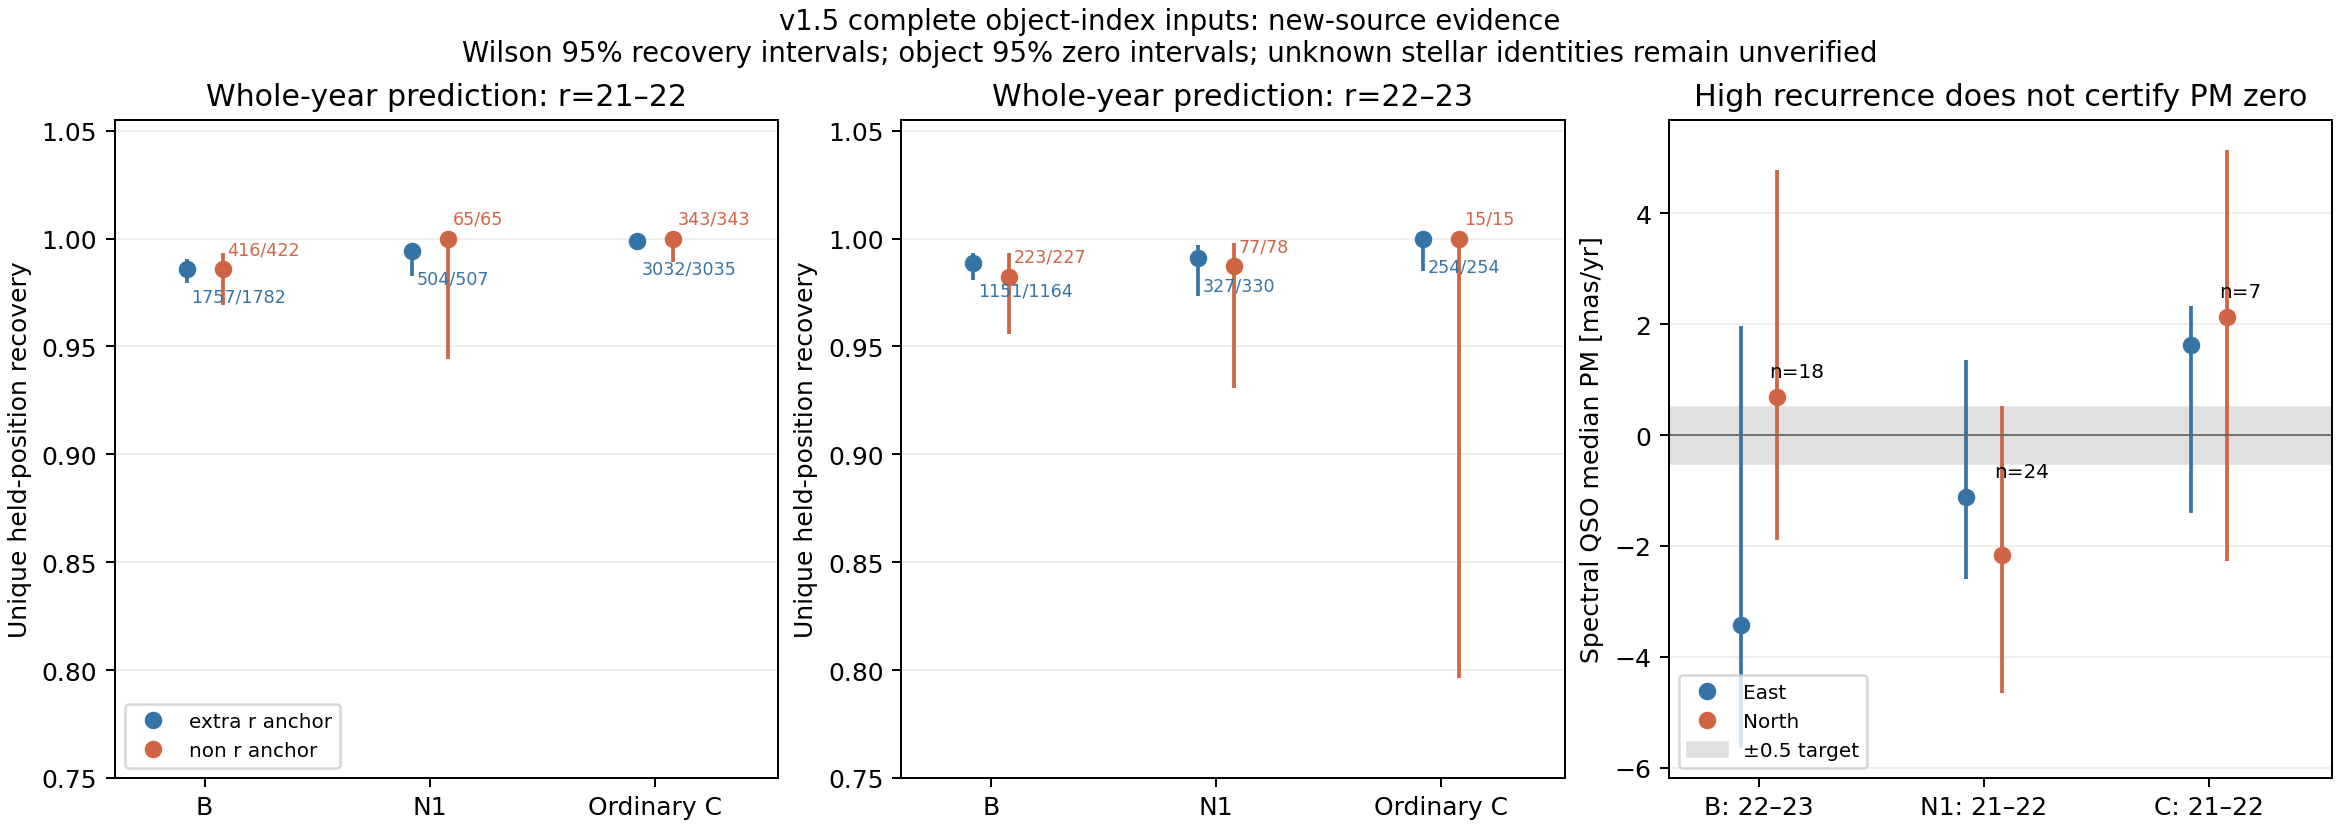
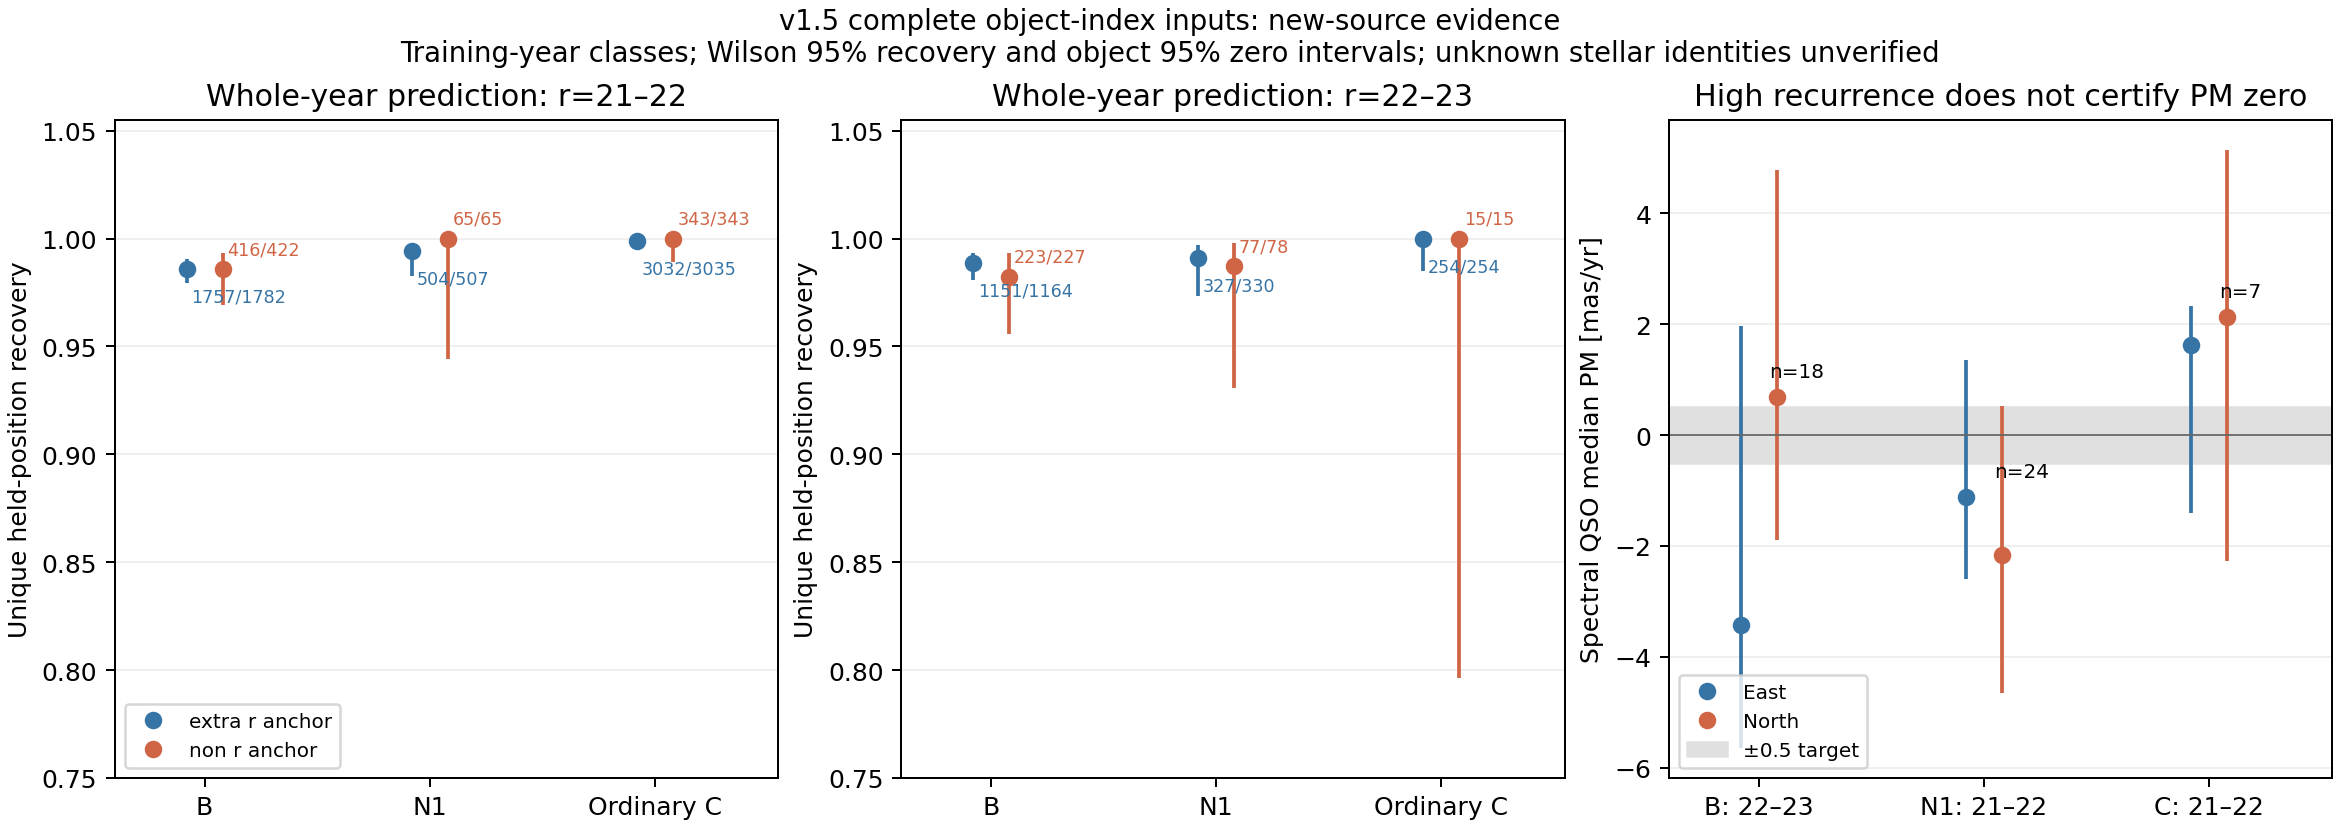
Separate retrieval gains from multiband information and audit local C0 solver equivalence

Changed region(s): [[0.1872, 0.0302, 0.8423, 0.0907]]

diff --git a/src/deep_pm/dcr_control_replay.py b/src/deep_pm/dcr_control_replay.py
@@ -1,0 +1,45 @@
+"""Replay original C0 on the identical local D0 reference population.
+
+This diagnoses whether a global/local difference can be a solver effect; it
+neither adds a DCR parameter nor adopts independent per-core reference frames.
+"""
+import argparse
+import os
+from pathlib import Path
+
+import numpy as np
+import pandas as pd
+
+from .__main__ import tomllib
+from .continuous_reference import PRECISION,bind,calibration_components,verify_directory
+from .dcr_validation import read_model
+from .io import save_json
+from .provenance import run_stage
+from .public_summary import check_aggregate
+from .zero_point import fit_offsets
+
+
+def run(work,trial):
+    config=tomllib.loads(PRECISION.read_text());cal=config['calibration'];rows=pd.read_csv(trial/'private_reference_dcr.csv.gz',dtype={'reference':str,'is_holdout':bool});train=rows.loc[~rows.is_holdout]
+    part=max(calibration_components(train,cal['min_references']),key=lambda p:p.reference.nunique()).reset_index(drop=True)
+    fit=fit_offsets(part.reference,part[['east','north']].to_numpy(),part[['sigma_e','sigma_n']].to_numpy(),part.group.to_numpy(),cal['min_references'],cal['bootstrap_draws'],config['seed'])
+    late=[v for k,v in fit.items() if k.startswith('NSC:')];anchor=np.median([v[0] for v in late],axis=0);datum=np.median([v[1]-v[1].mean(axis=0) for v in late],axis=0);old={}
+    for key,(point,samples,n) in fit.items():
+        samples=samples-samples.mean(axis=0)-datum
+        if np.std(samples,axis=0,ddof=1).max()<=cal['max_offset_se_mas']:old[key]=(point-anchor,samples,n)
+    d0=read_model(trial/'private_D0_local_C0.npz')['base'];keys=sorted(set(old)&set(d0));point=np.array([old[k][0]-d0[k][0] for k in keys]);sigma=np.array([np.std(old[k][1],axis=0,ddof=1)-np.std(d0[k][1],axis=0,ddof=1) for k in keys])
+    result=dict(local_reference_sources=part.reference.nunique(),local_measurements=len(part),original_solver_supported_groups=len(old),D0_supported_groups=len(d0),common_groups=len(keys),same_supported_groups=set(old)==set(d0),
+        maximum_absolute_group_offset_change_mas=float(abs(point).max()),group_offset_change_p16_p50_p84_mas=np.quantile(point,[.16,.5,.84],axis=0),maximum_absolute_bootstrap_se_change_mas=float(abs(sigma).max()),
+        slurm_job=os.environ['SLURM_JOB_ID'],scope='Original zero_point.fit_offsets and frozen local no-DCR D0 use exactly the same physical training references, coordinates, native+floor errors, group keys, bootstrap seed and median-NSC gauge. Original tolerance1e-9 versus local1e-10 is retained. Both already center each reference before solving. This is a solver-equivalence diagnostic, not a new calibration/DCR model or permission to adopt local frames independently.')
+    check_aggregate(result);save_json(work/'dcr_control_replay_summary.json',result)
+
+
+def main():
+    p=argparse.ArgumentParser(description=__doc__);p.add_argument('work',type=Path);p.add_argument('trial',type=Path);a=p.parse_args()
+    if not os.environ.get('SLURM_JOB_ID'):p.error('Use a Slurm compute node')
+    a.work.mkdir(parents=True,exist_ok=True);bind(a.work,'trial_receipt.json',verify_directory(a.trial,('private_reference_dcr.csv.gz','private_D0_local_C0.npz')))
+    with run_stage(a.work,PRECISION,'local_C0_equivalence','dcr-control-replay-v15',inputs=('trial_receipt.json',),outputs=('dcr_control_replay_summary.json',)) as go:
+        if go:run(a.work,a.trial)
+
+
+if __name__=='__main__':main()

diff --git a/src/deep_pm/nsc_dark_figures.py b/src/deep_pm/nsc_dark_figures.py
@@ -27,7 +27,7 @@ def run(summary,output):
         axes[2].annotate('n='+str(part['n']),(j,max(model['median'])),xytext=(4,8),textcoords='offset points',fontsize=8)
     axes[2].axhspan(-.5,.5,color='.88',label='±0.5 target');axes[2].axhline(0,color='.4',lw=.7);axes[2].set(xticks=range(3),xticklabels=['B: 22–23','N1: 21–22','C: 21–22'],ylabel='Spectral QSO median PM [mas/yr]',title='High recurrence does not certify PM zero',xlim=(-.4,2.55));axes[2].grid(axis='y',alpha=.2)
     axes[0].legend(fontsize=8,loc='lower left');axes[2].legend(fontsize=8,loc='lower left')
-    fig.suptitle('v1.5 complete object-index inputs: new-source evidence\nWilson 95% recovery intervals; object 95% zero intervals; unknown stellar identities remain unverified',fontsize=11)
+    fig.suptitle('v1.5 complete object-index inputs: new-source evidence\nTraining-year classes; Wilson 95% recovery and object 95% zero intervals; unknown stellar identities unverified',fontsize=11)
     output.parent.mkdir(parents=True,exist_ok=True);fig.savefig(output,dpi=180);plt.close(fig)
 
 

diff --git a/tests/test_dcr_reference.py b/tests/test_dcr_reference.py
@@ -52,3 +52,13 @@ def test_source_color_error_is_shared_and_joint_beta_group_draws_cancel():
     noisy,_=offsets(model,['g1','g2'],[0,0],2.2,.2,'same source')
     np.testing.assert_array_equal(noisy['g1'][1],noisy['g2'][1])
     assert np.std(noisy['g1'][1][:,1])>1
+
+
+def test_no_dcr_local_solver_matches_original_c0_on_same_large_coordinate_graph():
+    from deep_pm.dcr_reference_fit import fit
+    from deep_pm.zero_point import fit_offsets
+    rng=np.random.default_rng(42);nr=30;groups=np.tile(np.arange(3),nr);refs=np.repeat(np.arange(nr),3)
+    xy=np.repeat(rng.normal(1e8,1e6,(nr,2)),3,axis=0)+np.array([[12.,-5.],[-8.,15.],[0.,0.]])[groups]+rng.normal(0,2,(len(groups),2));sigma=np.full_like(xy,50.)
+    old=fit_offsets(refs,xy,sigma,groups,5,8,42)
+    local,_,_,_=fit(refs,xy,sigma,groups,np.zeros_like(xy),np.repeat(1.2,len(xy)),np.repeat(.1,len(xy)),8,42,with_dcr=False)
+    for group in old:np.testing.assert_allclose(old[group][0]-old[2][0],local[group][0]-local[2][0],atol=1e-3)

diff --git a/WORKLOG.md b/WORKLOG.md
@@ -2,6 +2,8 @@
 
 ## 2026-11-19
 
+- 相同原全年训练成员重放完成：B5489→5507、北一1777→1778候选，共同参考SHA相同，相同检测PM差至多约2.1e-8mas/yr；改变NSC成员和缺失身份保留分母，不用PM认同源。取数增加55725／24680不等于新增星数。年度非r锚点只相对训练年，与完整目录三类数量分开。增加原C0同局部参考求解等价性控制（不加DCR参数、不采用独立局部图），大坐标植入测试通过；实际诊断待Slurm。
+
 - 公开方法／重现入口补齐：同Slurm配置从完整取数到固定band、全年隔离、成员／冻结重放和连续汇总；逐源原始数据不用于本地。连续汇总显式数值dtype保护零源核心，逐检测／按源二项近似与共同观测误差区分，不能用137相关测量当137独立源。年度重现／零点图已目视检查，183项此前全套通过，新增物理成员重放与汇总定向测试通过；全C仍在运行，不宣称完成。
 
 - 同一61565637分配内额外16GiB诊断完成真实C几何机会面积：r89.560→all99.816平方度，增加10.256；粗网格89.626／99.818，双SDSS field余量一致。不是每源SNR／提取／身份／空间零点认证面积。新增固定旧全年训练成员重放，按SDSS真实检测及完整成员身份，不以PM相近匹配；故意改PM1000mas/yr仍按同一成员识别、改变成员／缺失对象保留分母的测试通过。新增全年重现／QSO零点证据图并目视核验。

diff --git a/docs/method_status_v15.md b/docs/method_status_v15.md
@@ -16,3 +16,5 @@
 | 标准输出 | 逆gnomonic速度到每源mu_alpha*／mu_delta，位置—运动4×4Jacobian传播，物理组／band／仪器／夜／参考SHA可追溯 | 形式误差不是空间零点上限。科研合格解不是已认证星数，名义core面积不是实际目标SNR或认证面积 |
 
 实际入口：`nsc_allband_inputs`、`nsc_exposure_complete`、`nsc_information`、`nsc_band_information`、`dcr_trial`／`dcr_validation`、`night_error_year`、`nsc_science_catalogue`、`allband_blind_year`、`allband_member_audit`、`nsc_science_summary`、`nsc_opportunity_area`。均通过Slurm执行；公开只同步经过审阅的汇总和科研图。
+
+年度三类源仅由训练年份中的r支持定义，不与完整全历元目录的三类数量互换。取数补齐和使用已取回的其他band分别计数；同一物理成员重放显示原问题源的PM未因取数变多而改变。全部源协方差条件于已选参考规范和发布参考系，不声称已包含未知绝对frame tie、空间残余或全部跨夜系统项。
